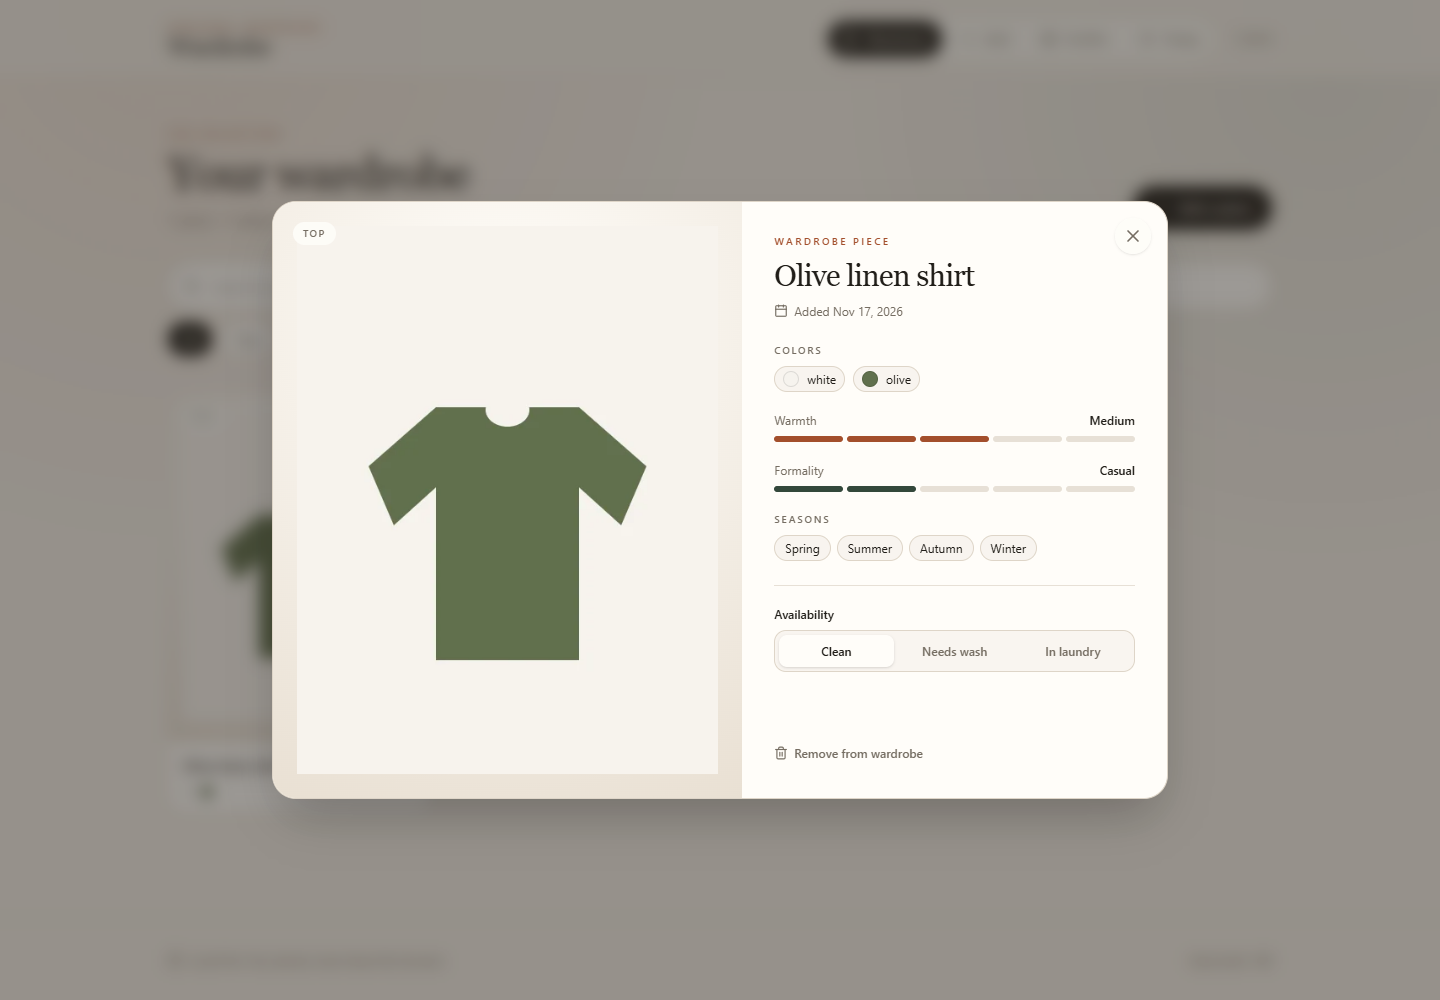
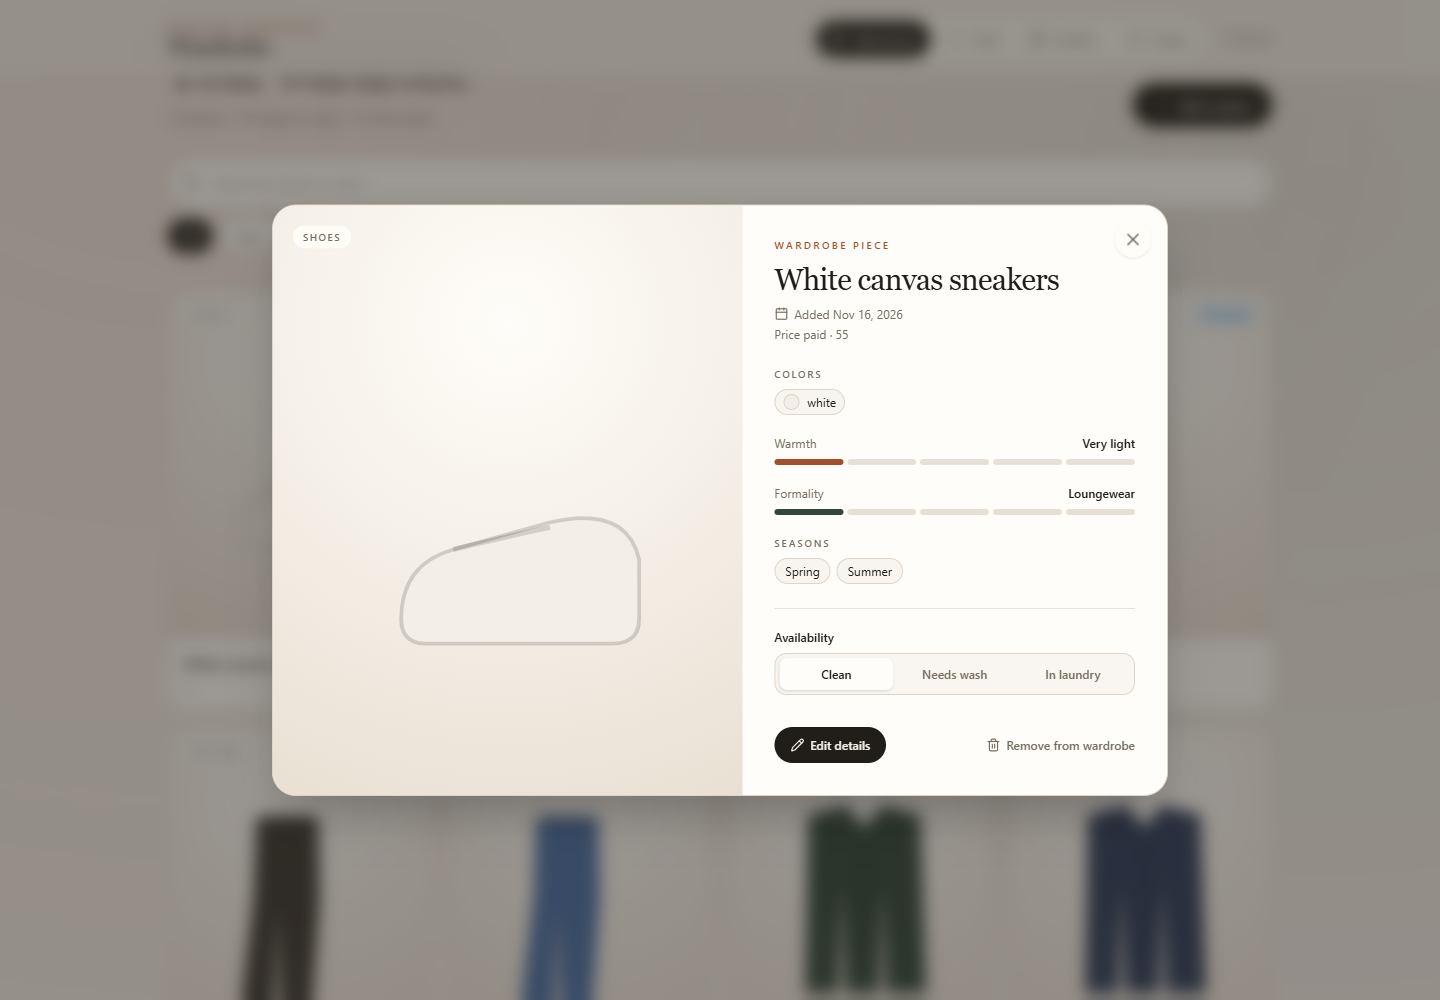
docs(screenshots): seed a demo wardrobe and refresh captures

diff --git a/docs/roadmap.md b/docs/roadmap.md
@@ -72,7 +72,7 @@ Each milestone is a shippable slice, not a folder of half-finished experiments. 
 - [x] Color palette and undertone preferences (editable, clearly heuristic)
 - [x] Cost-per-wear and wardrobe gap insights
 - [x] Accessibility pass (keyboard, focus, labels, contrast)
-- [ ] Demo GIF and refreshed screenshots
+- [x] Refreshed screenshots and a demo seed
 
 **Acceptance:** install the app on a phone home screen, open it offline, and add a piece.
 
@@ -85,6 +85,8 @@ Each milestone is a shippable slice, not a folder of half-finished experiments. 
 **Delivered (2026-11-18):** slice four added a wardrobe ledger. A piece can carry an optional price in whatever currency the user uses — it is a number, never converted. The insights panel on the wardrobe page shows the total value of priced pieces, the average cost per wear across their logged wears, and the top pieces by cost per wear. It also names the gaps a small wardrobe tends to have: a base, a formal option, warmth at both ends, shoes, rain-ready shoes, and a neutral anchor. Prices are optional and ride along in the v2 backup.
 
 **Delivered (2026-11-18):** slice five was an accessibility pass. A global `:focus-visible` rule gives every control a visible keyboard focus ring, including native inputs that previously showed none when tabbed to. The secondary buttons that had missed rings — the cancel and confirm actions in the delete confirmations, the rename cancel, the crop dialog's cancel, the photo overlay actions, and the weather and outfit-builder back buttons — now carry the same accent ring as their primary siblings. The toast is an explicit `aria-live="polite"` region so re-renders announce. No behavior or data changed.
+
+**Delivered (2026-11-18):** slice six refreshed the documentation screenshots and shipped the seed behind them. `scripts/demo-seed.mjs` fills the `wardrobe` database with a believable demo closet — twelve garments as inline SVG silhouettes across every category, two saved looks, and two wear events — so the grid, palette, and insights panels all have real data to show. It is a browser script because photos are Blobs in IndexedDB, and it is idempotent: each run rebuilds from scratch. Against that closet the README gallery was re-captured at the real widths, plus three new shots: the insights panel, the palette panel, and the wardrobe on a phone at 390 px. An animated demo is still open under "Later".
 
 ## Later, only if the core is solid
 

diff --git a/docs/devlog.md b/docs/devlog.md
@@ -2,6 +2,16 @@
 
 A short, append-only record of what changed and why. Newest entries first.
 
+## 2026-11-18 — M4: real screenshots from a real demo closet
+
+- Added `scripts/demo-seed.mjs`, a browser seed that fills the `wardrobe` database with a demo closet: twelve garments across every category, two saved looks, and two wear events (one loved). It is idempotent — each run deletes and rebuilds the database, so repeat runs give the same closet.
+- The garments are inline SVG silhouettes coloured per piece, turned into Blobs. They render as real thumbnails, so the wardrobe grid, outfit collages, palette derivation, and insights all have genuine data. No photos are committed and nothing is fetched.
+- It is a browser script, not a Node script, because photos are Blobs in IndexedDB and `createImageBitmap`, `indexedDB`, and the object stores all need a browser. It exposes `window.__wardrobeSeed()` and is injected into a running page.
+- Captured fresh screenshots against that closet at the real widths — 1440×1000 desktop and 390×844 mobile — and added three: the insights panel, the palette panel, and the wardrobe on a phone. The home, outfits, builder, detail, today, wear-log, and item-detail shots now show a populated wardrobe instead of an empty or `Test …` one; the multi-step crop, cutout, and backup shots are from earlier builds and still describe their flows correctly.
+- A short animated demo remains open under the roadmap's "Later" list; this slice ships the screenshots and the seed behind them.
+
+**Next:** M4 is complete. Later candidates: an animated demo, multi-device sync, on-device learned ranking.
+
 ## 2026-11-18 — M4: an accessibility pass on the controls already there
 
 - Added a global `:focus-visible` rule in `src/index.css` so every control shows a 2 px accent ring on keyboard focus. Native inputs (search, text fields, the custom color pickers, the file input) previously had no visible indicator when tabbed to, because Tailwind's `focus:` ring styles only the mouse-focus state. A base rule guarantees an indicator everywhere without touching each control.

diff --git a/README.md b/README.md
@@ -9,7 +9,6 @@ A local-first virtual wardrobe. Add a garment with one photo, let the app pull i
 ![Wardrobe home](screenshots/home.png)
 
 ## What works today
-
 - Add a piece from a photo (camera or library on mobile)
 - Crop the photo before saving, or re-crop a saved one, with free, square, 4:5, and 3:4 frames
 - Remove the background in the browser, leaving the piece on a transparent cutout
@@ -49,6 +48,10 @@ A local-first virtual wardrobe. Add a garment with one photo, let the app pull i
 
 ![Edit a piece](screenshots/edit-item.png)
 
+![Cost per wear and wardrobe gaps](screenshots/insights-panel.png)
+
+![Color palette and undertone preferences](screenshots/palette-panel.png)
+
 ![Back up and restore](screenshots/backup-panel.png)
 
 ![Build an outfit](screenshots/outfits-builder.png)
@@ -57,15 +60,15 @@ A local-first virtual wardrobe. Add a garment with one photo, let the app pull i
 
 ![Outfit detail](screenshots/outfit-detail.png)
 
-![Today’s weather card](screenshots/weather.png)
-
-![Outfit suggestions](screenshots/suggestions.png)
+![Today’s suggestions](screenshots/today.png)
 
 ![Wear log](screenshots/wear-log.png)
 
+![On a phone](screenshots/mobile-wardrobe.png)
+
 ## Planned
 
-- Accessibility pass and a refreshed demo
+- A short demo animation
 
 See [docs/roadmap.md](docs/roadmap.md) for the order and acceptance criteria.
 
@@ -174,6 +177,8 @@ public/
   manifest.webmanifest    PWA name, colors, and icons
   sw.js                   offline shell cache and fetch strategy
   icons/                  install icons (192, 512, maskable)
+scripts/
+  demo-seed.mjs           browser seed that fills the wardrobe with a demo closet for screenshots
 screenshots/              documentation screenshots
 ```
 
